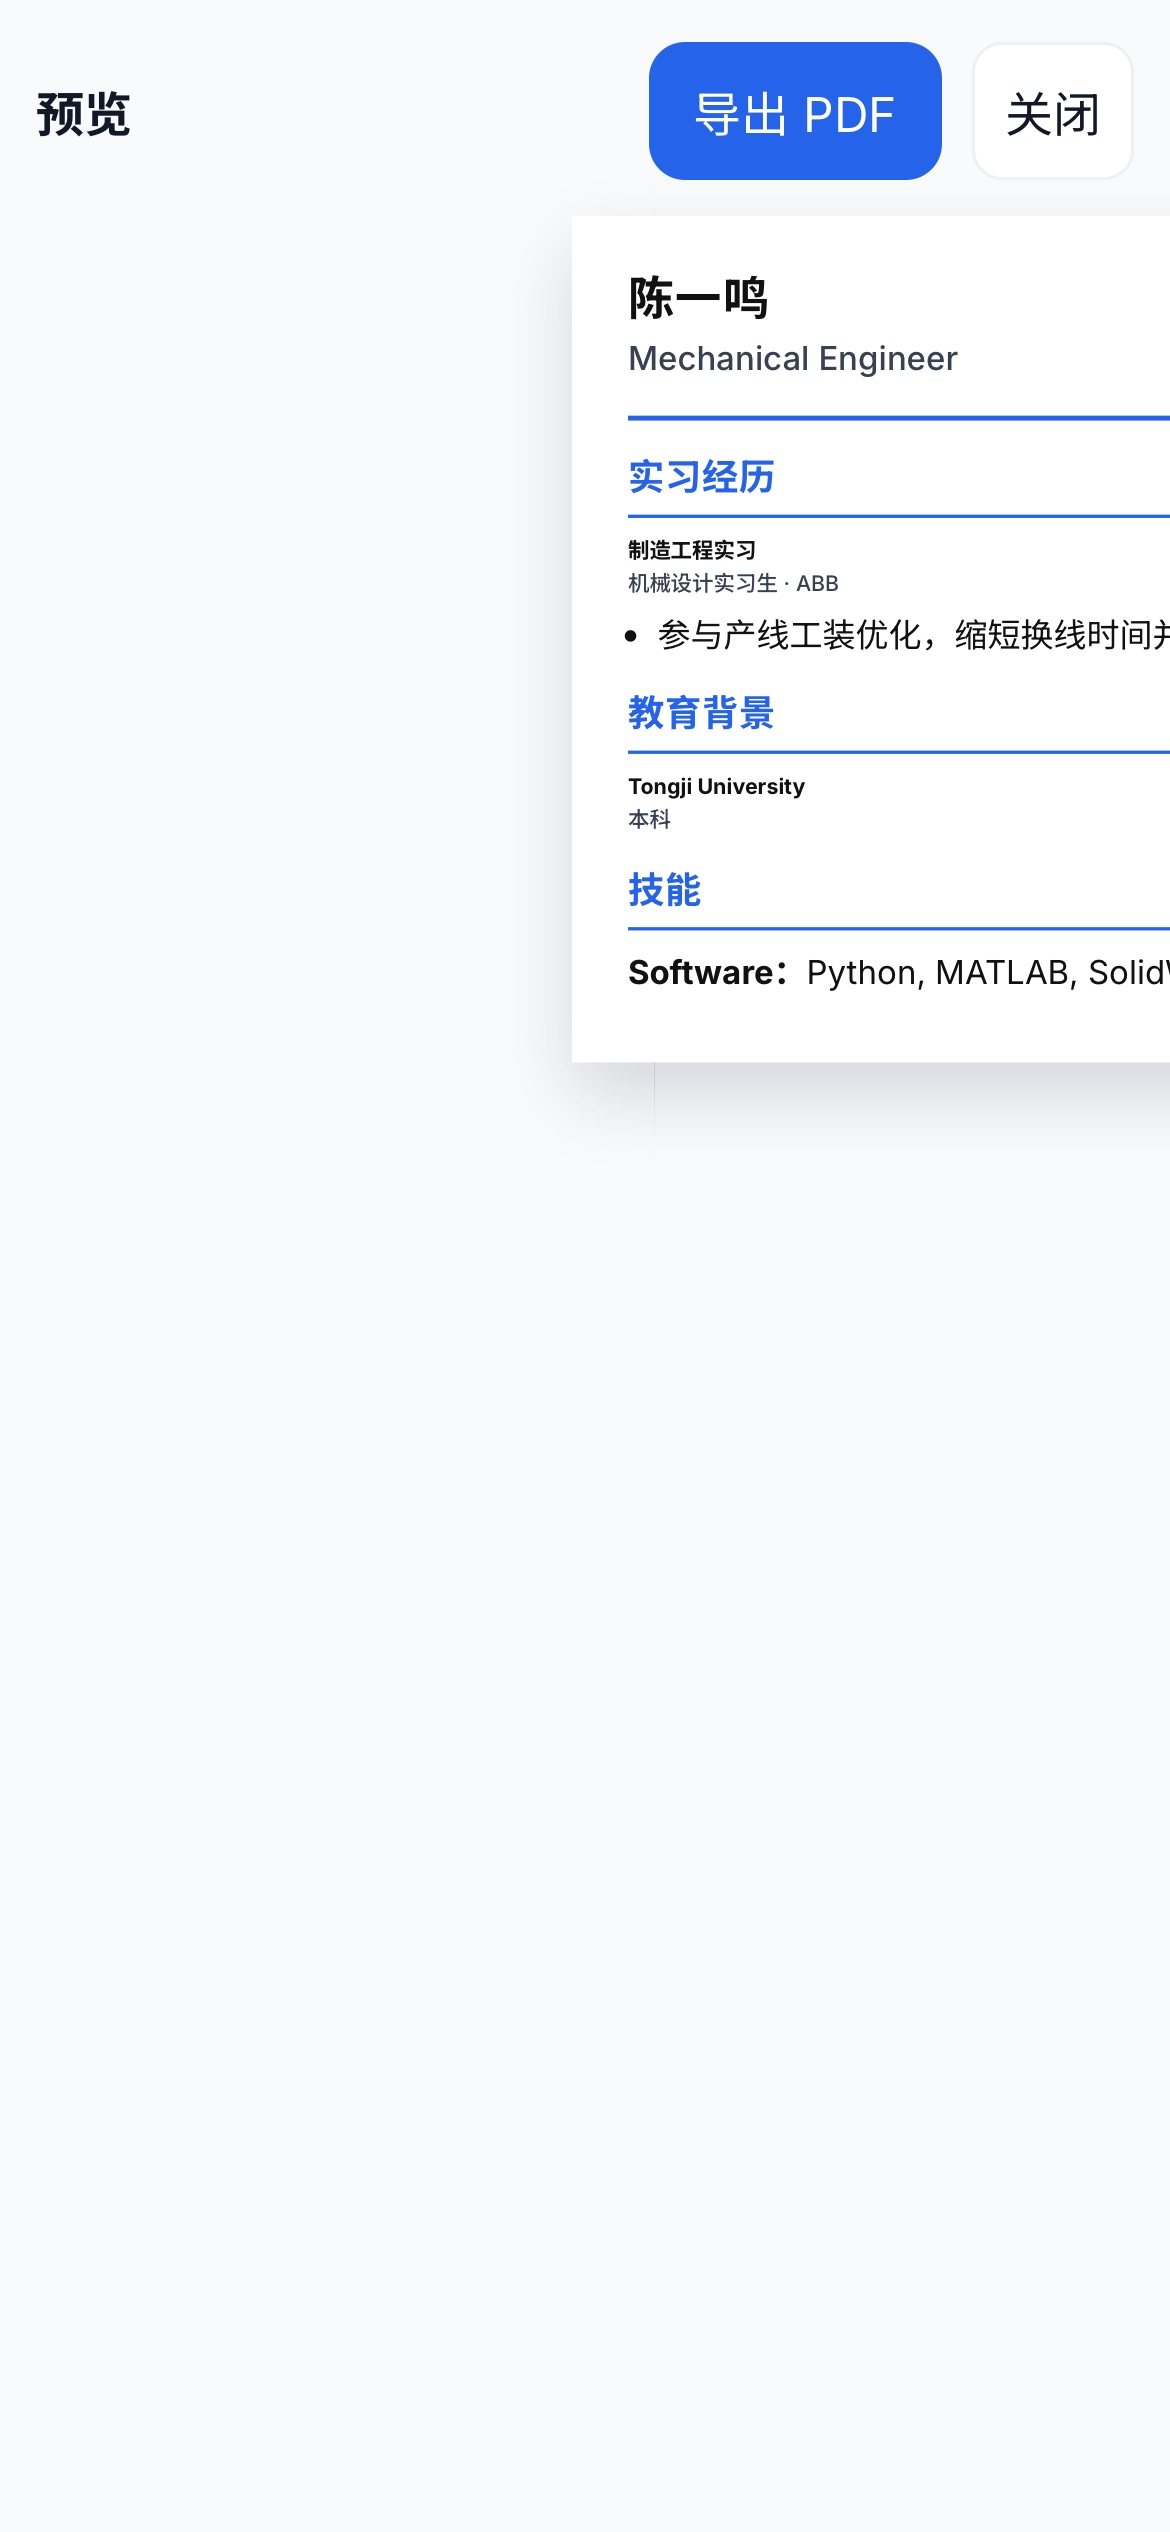
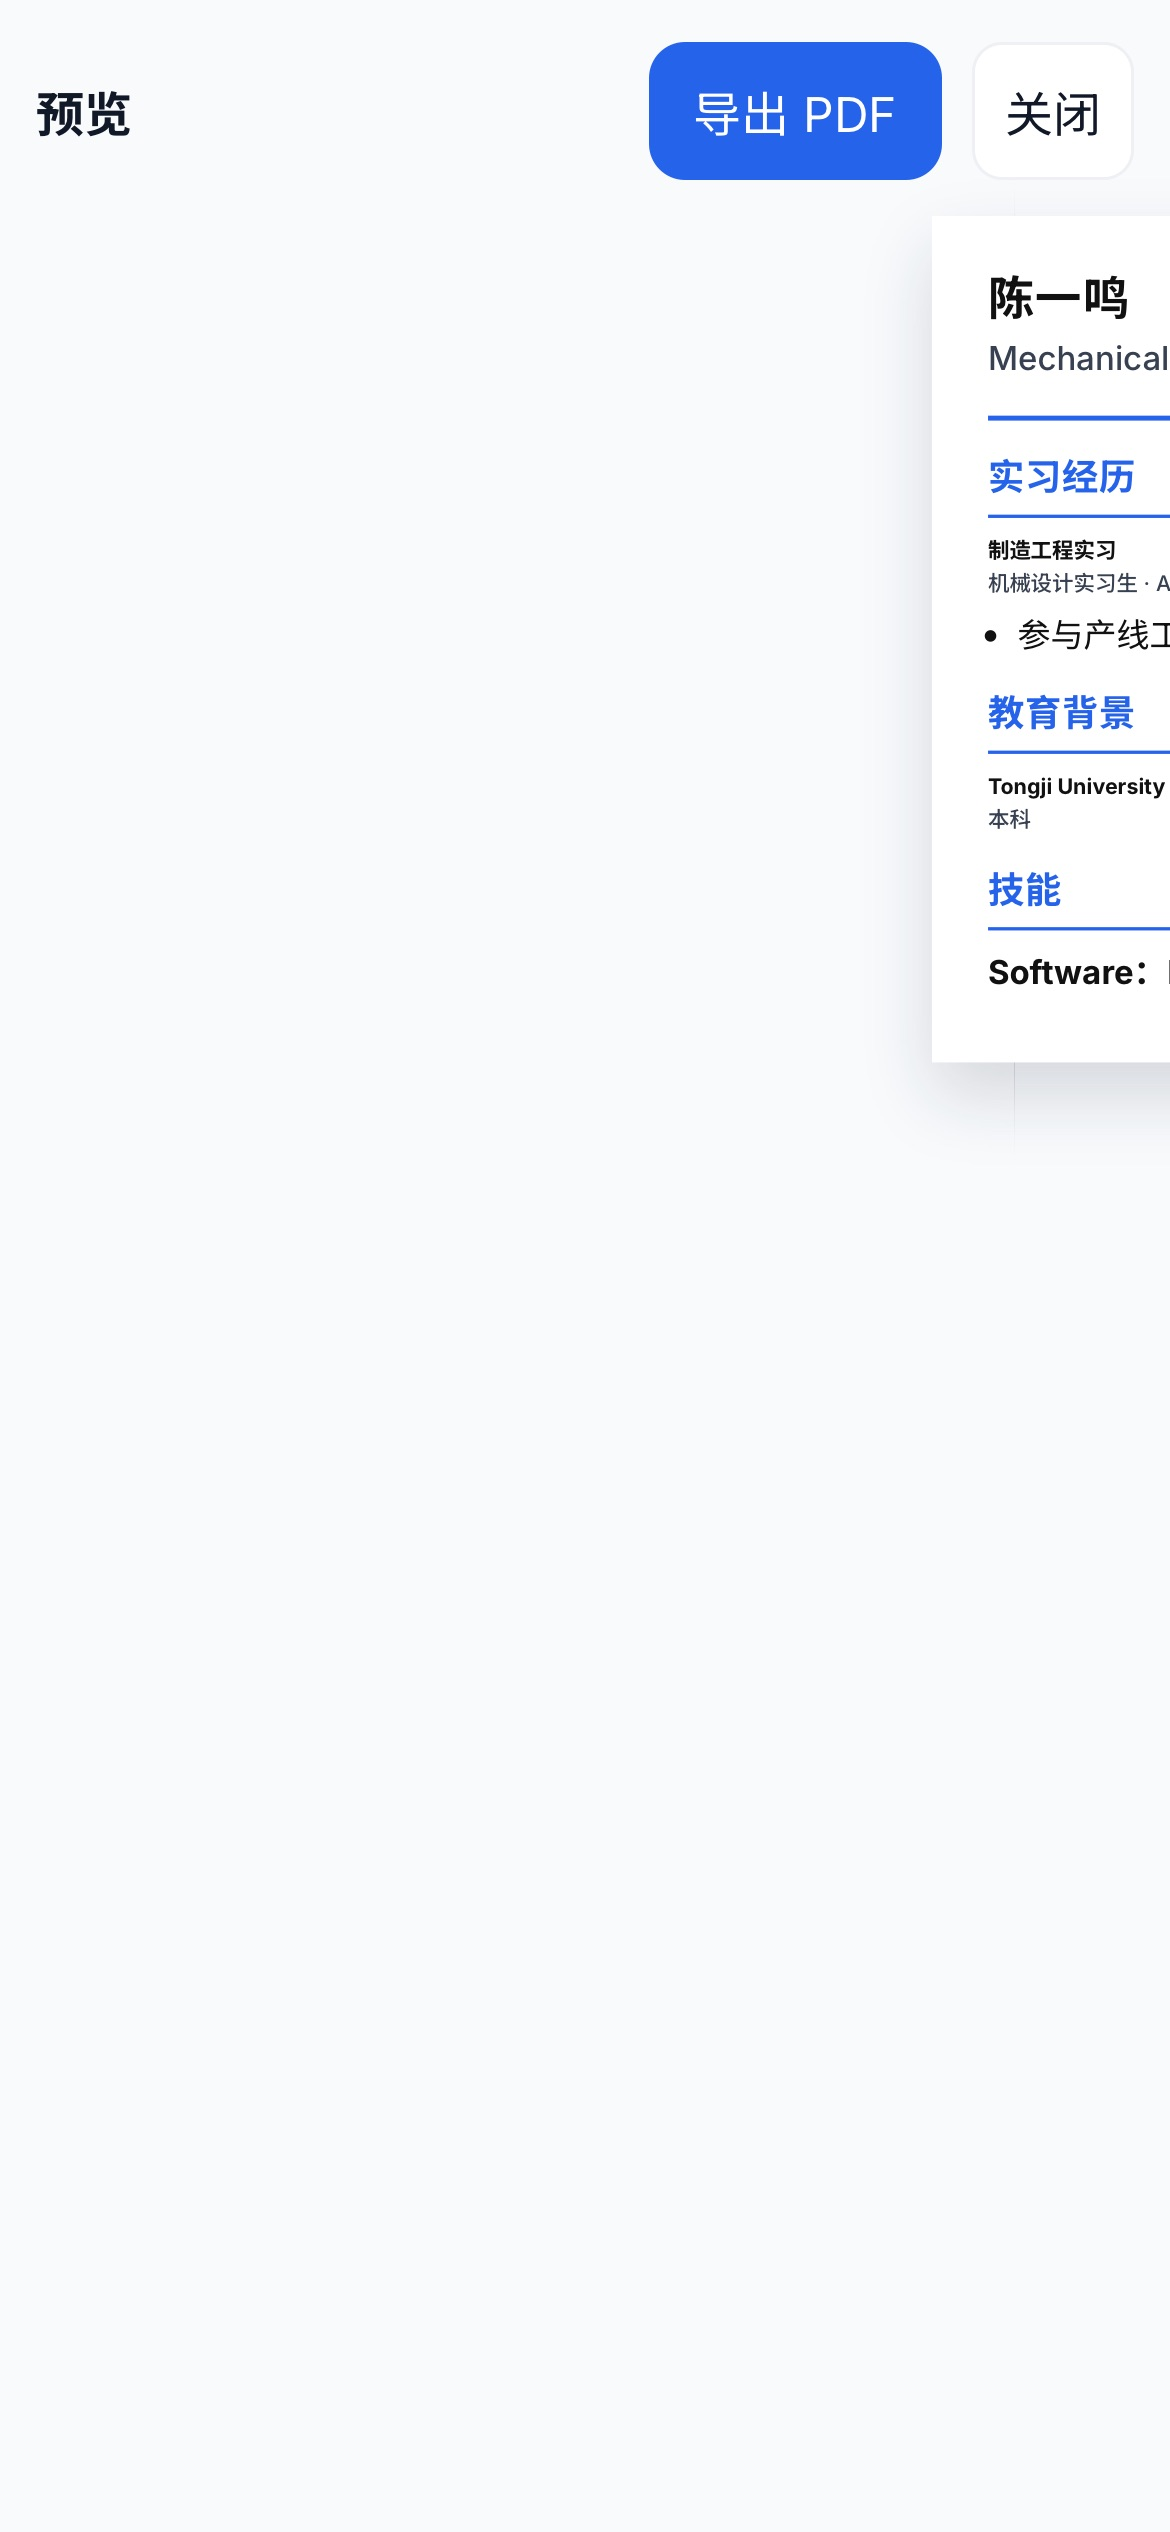
docs: split bilingual README and improve mobile screenshot

Changed region(s): [[0.5231, 0.0936, 0.8, 0.4368], [0.8, 0.0936, 1.0, 0.4056]]

diff --git a/README_ZH.md b/README_ZH.md
@@ -1,0 +1,118 @@
+# Modular Resume PDF Builder
+
+[English](README.md)
+
+一份信息池，多份定制简历。
+
+[在线演示](https://dreaminmaster.github.io/modular-resume-pdf-builder/) · [GitHub](https://github.com/Dreaminmaster/modular-resume-pdf-builder) · 版本：未发布 pre-v1.1.0 · License: MIT
+
+![桌面编辑器](docs/desktop-editor.png)
+
+---
+
+## 为什么做这个项目
+
+大多数简历工具都是从固定模板开始。
+
+这个项目从你的内容开始。
+
+你先维护一份完整的信息池，再为某一个岗位选择要展示的内容，切换排版模板，然后导出成一份定制化 PDF。
+
+它适合需要从同一份基础内容快速生成多份简历的人，而不是一遍遍重复改写。
+
+---
+
+## 使用流程
+
+### 1. 先填写完整信息池
+把教育、实习、项目、获奖、技能、链接等材料统一整理在一起。
+
+### 2. 再选择这次要展示什么
+根据目标岗位，显示或隐藏不同模块、字段、经历和要点描述。
+
+隐藏内容会保留，不会被删除。
+
+### 3. 最后导出定制化简历
+选择模板，实时预览结果，再导出干净的 PDF。
+
+---
+
+## 功能特点
+
+- **信息池** —— 所有简历内容集中维护
+- **内容显示控制** —— 为不同岗位快速组合不同版本
+- **多模板切换** —— 不重写内容，只切换排版
+- **实时预览** —— 编辑时直接看到 A4 成品效果
+- **PDF 导出** —— 只导出简历成品区域
+- **手机可用** —— 支持在手机上编辑、预览、导出
+- **数据留在浏览器中** —— 不需要账号，也不需要后端
+
+---
+
+## 适用场景
+
+### 工程学生
+突出项目、技术技能、实习经历和工程成果。
+
+### 产品经理求职
+强调项目、结果、作品链接和岗位匹配度。
+
+### 留学申请
+把教育、科研、成果和语言相关内容统一整理并按需求导出。
+
+### 英文简历
+在同一份信息池基础上快速生成更简洁的英文版本。
+
+---
+
+## 截图
+
+### 桌面编辑器
+![桌面编辑器](docs/desktop-editor.png)
+
+### 手机编辑器
+![手机编辑器](docs/mobile-editor.png)
+
+### PDF 预览
+![PDF 预览](docs/pdf-preview.png)
+
+### 模板与导出设置
+![模板与导出设置](docs/template-export.png)
+
+---
+
+## 隐私
+
+- 无后端
+- 无账号
+- 除非你主动导出，否则数据保留在浏览器中
+
+---
+
+## 更新说明
+
+### 当前状态
+- 项目已完成本轮 release 前收尾
+- v1.1.0 已准备，但还没有打 tag
+
+### 最近更新
+- 优化了手机端编辑 / 预览 / 导出流程
+- 收敛了左侧导航和 A4 预览体验
+- 增加了可自定义 PDF 文件名
+- 增加了 4 份官方演示数据
+- README 调整为产品化首页风格
+
+---
+
+## 路线图
+
+- 增加更多模板
+- 继续完善 README 截图资产
+- 继续优化演示与上手体验
+- 后续再考虑 AI 定制能力
+
+---
+
+## License
+
+MIT

diff --git a/README.md b/README.md
@@ -1,8 +1,8 @@
 # Modular Resume PDF Builder
 
-One information pool. Multiple tailored resumes.
+[中文说明](README_ZH.md)
 
-一份信息池，多份定制简历。
+One information pool. Multiple tailored resumes.
 
 [Live Demo](https://dreaminmaster.github.io/modular-resume-pdf-builder/) · [GitHub](https://github.com/Dreaminmaster/modular-resume-pdf-builder) · Version: unreleased pre-v1.1.0 · License: MIT
 
@@ -86,31 +86,6 @@ Prepare a cleaner English-first version without rebuilding everything from scrat
 - no backend
 - no account
 - data stays in your browser unless you export it
-
----
-
-## 中文说明
-
-### 这是什么
-这不是固定模板填空器。
-
-它是一个基于“信息池”思路的简历工具：
-- 先填写完整信息池
-- 再选择本次简历要显示的内容
-- 最后切换模板并导出 PDF
-
-### 它适合谁
-- 需要针对不同岗位快速定制简历的人
-- 工程学生
-- 产品经理求职者
-- 留学申请用户
-- 需要英文简历的人
-
-### 核心价值
-不是反复重写简历，
-而是基于一份完整信息池，快速组合出多份不同版本。
-
-**一份信息池，多份定制简历。**
 
 ---
 
